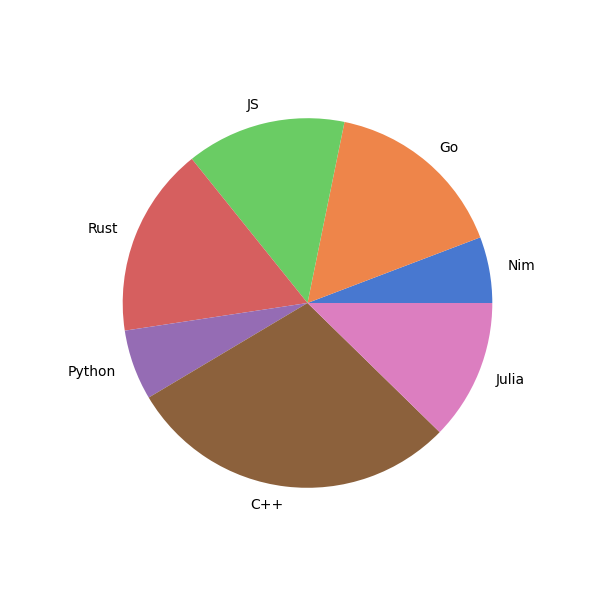
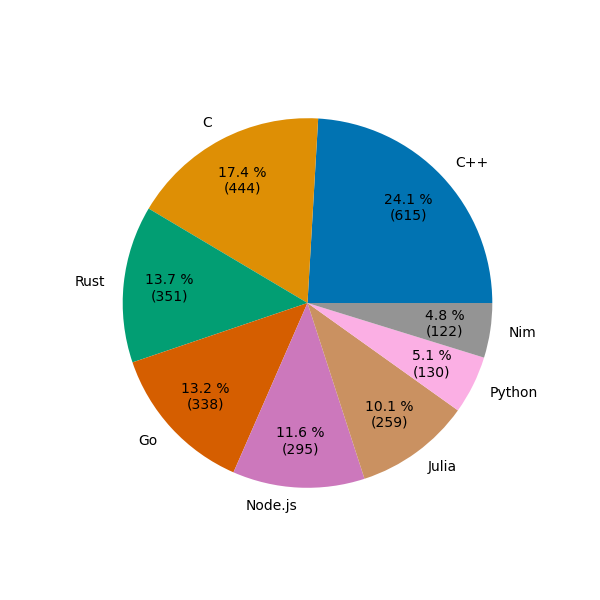
improvements to plotting func & updated plots

diff --git a/counter.py b/counter.py
@@ -1,17 +1,24 @@
 import matplotlib.pyplot as plt
 import seaborn as sns
+import numpy as np
 import os
 
 lang_dict = {
     'nim': 'Nim',
     'go' : 'Go',
-    'js' : 'JS',
+    'js' : 'Node.js',
     'rs' : 'Rust',
     'py' : 'Python',
     'cpp': 'C++',
+    'c'  : 'C',
     'jl' : 'Julia',
     'txt': 'Text'
 }
+
+def func(pct, data):
+    val = int(np.round(pct/100.*np.sum(list(data.values()))))
+    key = list(data.keys())[list(data.values()).index(val)]
+    return "{:.1f} %\n({})".format(pct, data[key])
 
 for year in os.listdir():
     if os.path.isdir(year) and year[:2] == '20':
@@ -25,13 +32,18 @@ for year in os.listdir():
                 with open(path, 'r') as file:
                     length = len(file.read())
                 len_dict[name] = length
-            print(len_dict)
             del len_dict['Text']
+            len_dict = {k: v for k, v in sorted(
+                len_dict.items(), key=lambda item: item[1], reverse=True)
+                }
+            print(len_dict)
             plt.figure(figsize=(6,6))
             plt.pie(
                 x=len_dict.values(),
                 labels=len_dict.keys(),
-                colors=sns.color_palette('muted')
+                colors=sns.color_palette('colorblind'),
+                autopct=lambda pct: func(pct, len_dict),
+                pctdistance=0.75
                 )
             plt.savefig(os.path.join(year, day, 'plot.png'), format='png')
             print()
